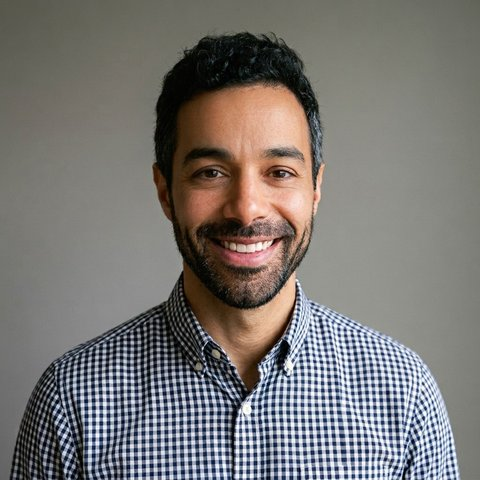
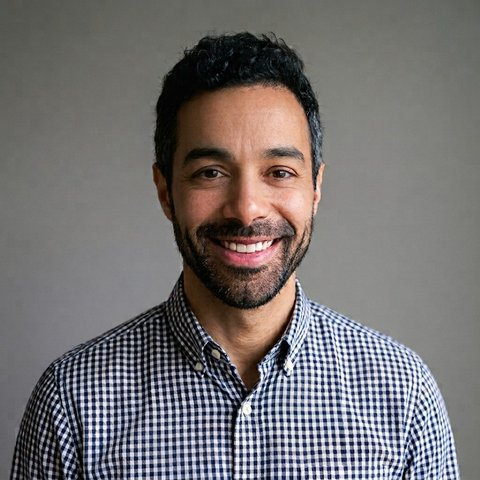
Update headshot; match image size to its display size
Claude-Session: https://claude.ai/code/session_01QWjS8s14FsFoZK2UJg1QfL

diff --git a/index.html b/index.html
@@ -95,7 +95,7 @@ footer { border-top: 1px solid var(--rule); padding-block: 28px 40px; font-size:
 
   <section>
     <div class="about">
-      <img class="photo" src="assets/matt-shuster.jpg" alt="Matt Shuster" width="120" height="120">
+      <img class="photo" src="assets/matt-shuster.jpg" alt="Matt Shuster" width="140" height="140">
       <div>
         <h2>Hi, I'm Matt.</h2>
         <div class="role">Matt Shuster, founder of Shuster Advisory</div>
